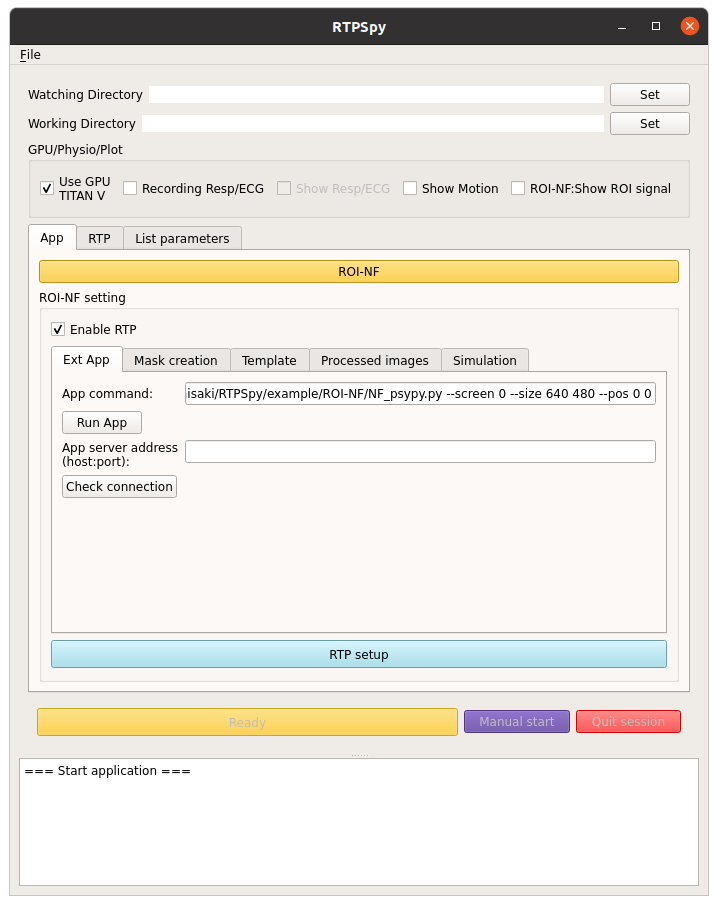
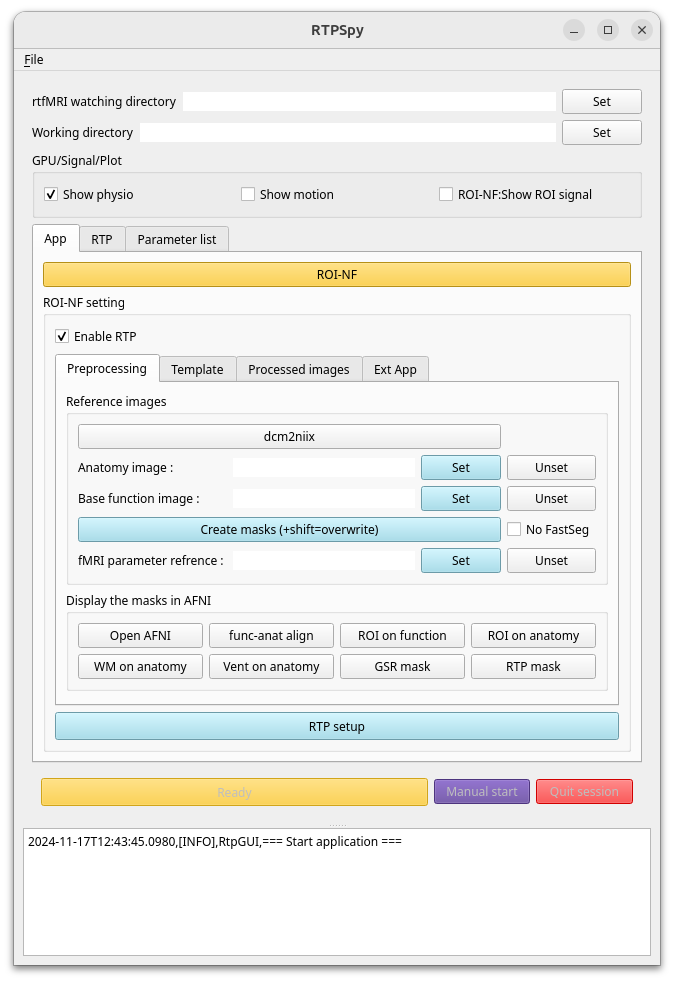
update

Changed region(s): [[0.0, 0.0, 0.997, 0.9901], [0.5608, 0.1856, 0.9347, 0.2166], [0.8724, 0.5569, 0.9036, 0.5878]]

diff --git a/rtpspy/rtp_common.py b/rtpspy/rtp_common.py
@@ -20,6 +20,7 @@ import time
 import traceback
 import socket
 import logging
+import threading
 
 import nibabel as nib
 import numpy as np
@@ -193,12 +194,30 @@ class RTP(object):
         pass
 
     # +++++++++++++++++++++++++++++++++++++++++++++++++++++++++++++++++++++++++
-    def select_file_dlg(self, caption, directory, filt):
+    def select_file_dlg(self, caption, directory, filt, parent=None):
         """
         If the user presses Cancel, it returns a tuple of empty string.
         """
-        fname = QtWidgets.QFileDialog.getOpenFileName(
-            None, caption, str(directory), filt)
+        if sys.platform == 'darwin':
+            fname = QtWidgets.QFileDialog.getOpenFileName(
+                parent, caption, str(directory), filt)
+        else:
+            options = QtWidgets.QFileDialog.Options()
+            options |= QtWidgets.QFileDialog.DontUseNativeDialog
+            fname = QtWidgets.QFileDialog.getOpenFileName(
+                parent, caption, str(directory), filt,
+                options=options
+            )
+
+        # dialog = QtWidgets.QFileDialog()
+        # dialog.setWindowTitle(caption)
+        # dialog.setFileMode(QtWidgets.QFileDialog.ExistingFile)
+        # # dialog.setDirectory(QtCore.QDir(str(directory)))
+        # dialog.setNameFilter(filt)
+        # fname = ('',)
+        # if dialog.exec_():
+        #     fname = dialog.selectedFiles()
+
         return fname
 
     # +++++++++++++++++++++++++++++++++++++++++++++++++++++++++++++++++++++++++
@@ -413,7 +432,8 @@ def save_parameters(objs, fname='RTPSpy_params.pkl'):
                     'ui_' in var_name or \
                     isinstance(var_val, RTP) or \
                     isinstance(var_val, serial.Serial) or \
-                    isinstance(var_val, QtCore.QThread):
+                    isinstance(var_val, QtCore.QThread) or \
+                    isinstance(var_val, threading.Thread):
                 continue
 
             try:

diff --git a/rtpspy/rtp_ttl_physio.py b/rtpspy/rtp_ttl_physio.py
@@ -25,6 +25,7 @@ import socket
 from datetime import datetime
 import json
 import platform
+import threading
 
 import numpy as np
 import pandas as pd
@@ -1027,25 +1028,28 @@ class RtpTTLPhysio(RTP):
                 plot_len_sec=plot_len_sec, disable_close=disable_close)
 
         self.plot.show()
-        self._pltTh = QtCore.QThread()
-        self.plot.moveToThread(self._pltTh)
-        self._pltTh.started.connect(self.plot.run)
-        self.plot.finished.connect(self._pltTh.quit)
+        self._pltTh = threading.Thread(target=self.plot.run, daemon=True)
+        # self._pltTh = QtCore.QThread()
+        # self.plot.moveToThread(self._pltTh)
+        # self._pltTh.started.connect(self.plot.run)
+        # self.plot.finished.connect(self._pltTh.quit)
         self._pltTh.start()
         # self._pltTh.setPriority(QtCore.QThread.LowPriority)
 
     # +++++++++++++++++++++++++++++++++++++++++++++++++++++++++++++++++++++++++
     def close_plot(self):
         if not hasattr(self, '_pltTh') or \
-                not self._pltTh.isRunning():
+                not self._pltTh.is_alive():
             return
 
         self.plot._cancel = True
-        if platform.system() == 'Darwin':
-            self._pltTh.terminate()
-        else:    
-            if not self._pltTh.wait(10):  # wait ms
-                self._pltTh.terminate()
+        self._pltTh.join(1)
+
+        # if platform.system() == 'Darwin':
+        #     self._pltTh.terminate()
+        # else:    
+        #     if not self._pltTh.wait(1000):  # wait ms
+        #         self._pltTh.terminate()
 
         del self.plot
         self.plot = None

diff --git a/rtpspy/rtp_app.py b/rtpspy/rtp_app.py
@@ -195,6 +195,7 @@ class RtpApp(RTP):
             volreg=rtp_objs['VOLREG'], rtp_physio=rtp_objs['TTLPHYSIO'])
 
         self.rtp_objs = rtp_objs
+        self.rtp_gui = None
 
         # --- Clean tmp dicom -------------------------------------------------
         tmp_dcm = list(Path('/tmp').glob('**/*.dcm'))
@@ -381,6 +382,13 @@ class RtpApp(RTP):
             dst_dir = out_dir / 'dicom'
             cmd = f"rsync -auvz {src_dir}/ {dst_dir}/"
             subprocess.check_call(shlex.split(cmd), stdout=subprocess.DEVNULL)
+
+            # # sanitize filename
+            # for fpath in out_dir.glob('*'):
+            #     fname = fpath.name
+            #     sanitized = re.sub(r'[\^|\s|<>:"/\\|?*\x00-\x1F]', '_', fname)
+            #     if sanitized != fname:
+            #         fpath.rename(out_dir / sanitized)
 
             msgBox.accept()
             QtWidgets.QMessageBox.information(
@@ -2398,7 +2406,8 @@ class RtpApp(RTP):
                     filt = '*.*;;*.txt;;*.1D'
                 else:
                     filt = "*.BRIK* *.nii*;;*.*"
-                fname = self.select_file_dlg(dlgMdg, startdir, filt)
+                fname = self.select_file_dlg(
+                    dlgMdg, startdir, filt, parent=self.rtp_gui )
                 if fname[0] == '':
                     return -1
 

diff --git a/example/ROI-NF/ROINF_RTPSpy.py b/example/ROI-NF/ROINF_RTPSpy.py
@@ -80,7 +80,8 @@ if __name__ == '__main__':
 
     # --- Start application ---------------------------------------------------
     app = QtWidgets.QApplication(sys.argv)
-    app.setStyle("Fusion")
+    if sys.platform == 'darwin':
+        app.setStyle("Fusion")
 
     # Make RtpApp instance
     rtp_app = ROINF(default_rtp_params=rtp_params)
@@ -88,6 +89,7 @@ if __name__ == '__main__':
     # Make GUI (RtpGUI) instance
     app_obj = {'ROI-NF': rtp_app}
     rtp_ui = RtpGUI(rtp_app.rtp_objs, app_obj, log_file=log_file)
+    rtp_app.rtp_gui = rtp_ui
 
     # Get RTP object instances for loading and saving the parameters
     all_rtp_objs = rtp_app.rtp_objs
@@ -122,10 +124,11 @@ if __name__ == '__main__':
         save_parameters(all_rtp_objs, fname='RTPSpy_ROINF_params.pkl')
 
     # Copy log
-    work_dir = rtp_app.work_dir
+    work_dir = Path(rtp_app.work_dir)
     log_dir = work_dir / 'log'
     if not log_dir.is_dir():
         log_dir.mkdir()
-    shutil.copy(log_file, log_dir / log_file.name)
+    if log_file.parent != log_dir:
+        shutil.copy(log_file, log_dir / log_file.name)
 
     sys.exit(exit_code)
